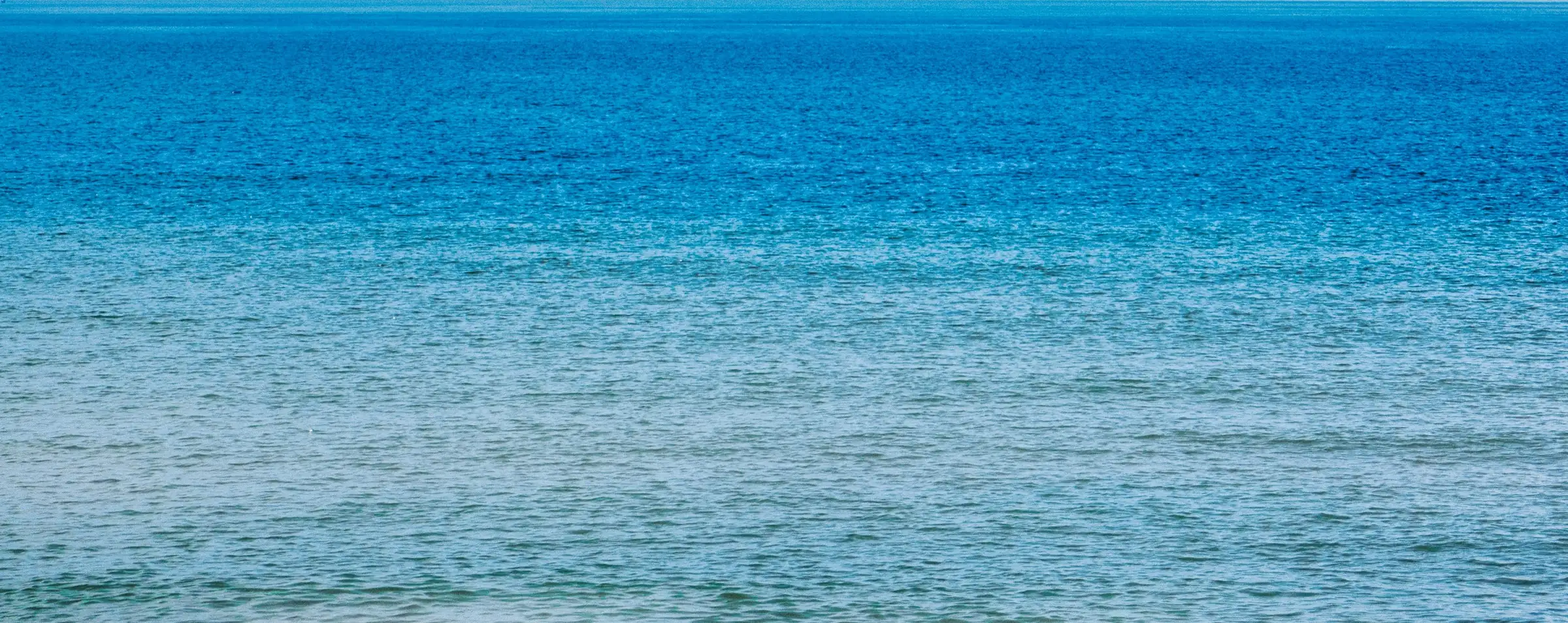
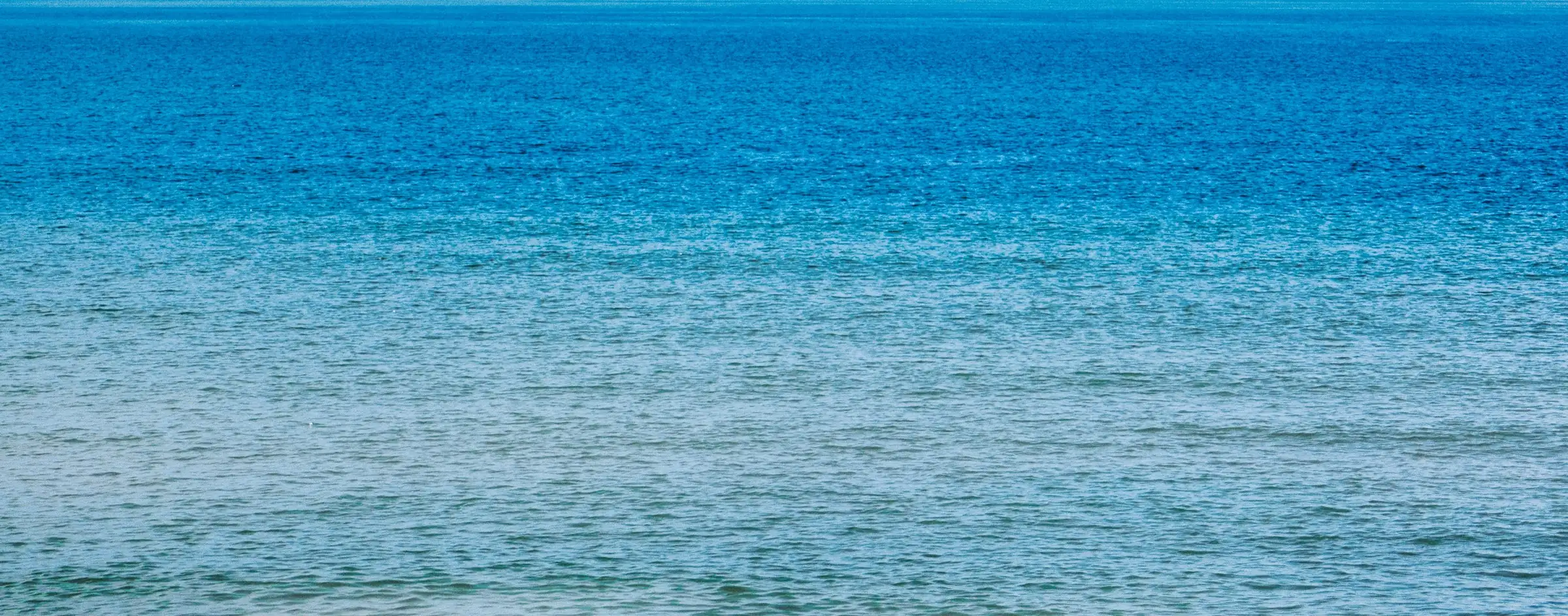
Crop the horizon edge out of the sky and sea layers so the mirror seam is clean; cache v10

diff --git a/css/layout.css b/css/layout.css
@@ -43,29 +43,29 @@ body {
    every two copies, so the animation wraps back by two copies and starts again:
    that covers a page of any length with four images. */
 .bg-sky {
-  --sky-h: max(110.25vw, var(--horizon)); /* one copy: the photo's own 2400x2646 shape, never shorter than the horizon */
+  --sky-h: max(108.75vw, var(--horizon)); /* one copy: the photo's own 2400x2610 shape, never shorter than the horizon */
   bottom: calc(100svh - var(--horizon) - var(--sky-h));
   width: 100%;
 }
 .bg-sky i {
   display: block;
   height: var(--sky-h);
-  background: url(../assets/images/sky.webp?v=9) center bottom / cover;
+  background: url(../assets/images/sky.webp?v=10) center bottom / cover;
 }
 .bg-sky i:nth-child(even) { transform: scaleY(-1); }
 
-/* The sea is the photo below the horizon, 2400x954, never shorter than the
+/* The sea is the photo below the horizon, 2400x944, never shorter than the
    gap under the horizon so it cannot run out at the bottom of the viewport. */
 .bg-sea {
   top: var(--horizon);
   width: 100%;
-  height: max(calc(100svh - var(--horizon)), 39.75vw);
-  background: url(../assets/images/sea.webp?v=9) center top / cover;
+  height: max(calc(100svh - var(--horizon)), 39.33vw);
+  background: url(../assets/images/sea.webp?v=10) center top / cover;
 }
 
 @media (max-width: 600px) {
-  .bg-sky i { background-image: url(../assets/images/sky-1000.webp?v=9); }
-  .bg-sea { background-image: url(../assets/images/sea-1000.webp?v=9); }
+  .bg-sky i { background-image: url(../assets/images/sky-1000.webp?v=10); }
+  .bg-sea { background-image: url(../assets/images/sea-1000.webp?v=10); }
 }
 
 /* Base on the horizon, centred, never wider than the viewport. */

diff --git a/index.html b/index.html
@@ -19,11 +19,11 @@
   <link rel="icon" type="image/svg+xml" href="/icon.svg">
 
   <!-- Styles -->
-  <link rel="stylesheet" href="css/reset.css?v=9">
-  <link rel="stylesheet" href="css/variables.css?v=9">
-  <link rel="stylesheet" href="css/layout.css?v=9">
-  <link rel="stylesheet" href="css/components.css?v=9">
-  <link rel="stylesheet" href="css/responsive.css?v=9">
+  <link rel="stylesheet" href="css/reset.css?v=10">
+  <link rel="stylesheet" href="css/variables.css?v=10">
+  <link rel="stylesheet" href="css/layout.css?v=10">
+  <link rel="stylesheet" href="css/components.css?v=10">
+  <link rel="stylesheet" href="css/responsive.css?v=10">
 <script>
 (function(){var A='https://analytics.harrys.monster/e',v;
 try{v=localStorage.getItem('_aid')||crypto.randomUUID();localStorage.setItem('_aid',v)}catch(e){v='anon'}
@@ -55,7 +55,7 @@ window.track=function(n,p){send({t:'custom',name:n,props:p})};
   <!-- Pinned sky and sea; each slides down at its own share of the scroll (see layout.css) -->
   <div class="bg-sky"><i></i><i></i><i></i><i></i></div>
   <div class="bg-sea"></div>
-  <img class="hero-island" src="assets/images/halftone-island.svg?v=9" alt="" width="96" height="65" decoding="async">
+  <img class="hero-island" src="assets/images/halftone-island.svg?v=10" alt="" width="96" height="65" decoding="async">
 
   <!-- ===== HEADER / NAV ===== -->
   <header class="header">
@@ -266,6 +266,6 @@ window.track=function(n,p){send({t:'custom',name:n,props:p})};
       <p>Harry Cassidy &copy; <span id="year">2026</span></p>
     </div>
   </footer>
-  <script src="js/main.js?v=9" defer></script>
+  <script src="js/main.js?v=10" defer></script>
 </body>
 </html>

diff --git a/guides.html b/guides.html
@@ -19,11 +19,11 @@
   <link rel="icon" type="image/svg+xml" href="/icon.svg">
 
   <!-- Styles -->
-  <link rel="stylesheet" href="css/reset.css?v=9">
-  <link rel="stylesheet" href="css/variables.css?v=9">
-  <link rel="stylesheet" href="css/layout.css?v=9">
-  <link rel="stylesheet" href="css/components.css?v=9">
-  <link rel="stylesheet" href="css/responsive.css?v=9">
+  <link rel="stylesheet" href="css/reset.css?v=10">
+  <link rel="stylesheet" href="css/variables.css?v=10">
+  <link rel="stylesheet" href="css/layout.css?v=10">
+  <link rel="stylesheet" href="css/components.css?v=10">
+  <link rel="stylesheet" href="css/responsive.css?v=10">
 <script>
 (function(){var A='https://analytics.harrys.monster/e',v;
 try{v=localStorage.getItem('_aid')||crypto.randomUUID();localStorage.setItem('_aid',v)}catch(e){v='anon'}
@@ -146,6 +146,6 @@ window.track=function(n,p){send({t:'custom',name:n,props:p})};
       <p>Harry Cassidy &copy; <span id="year">2026</span></p>
     </div>
   </footer>
-  <script src="js/main.js?v=9" defer></script>
+  <script src="js/main.js?v=10" defer></script>
 </body>
 </html>

diff --git a/timeline.html b/timeline.html
@@ -19,11 +19,11 @@
   <link rel="icon" type="image/svg+xml" href="/icon.svg">
 
   <!-- Styles -->
-  <link rel="stylesheet" href="css/reset.css?v=9">
-  <link rel="stylesheet" href="css/variables.css?v=9">
-  <link rel="stylesheet" href="css/layout.css?v=9">
-  <link rel="stylesheet" href="css/components.css?v=9">
-  <link rel="stylesheet" href="css/responsive.css?v=9">
+  <link rel="stylesheet" href="css/reset.css?v=10">
+  <link rel="stylesheet" href="css/variables.css?v=10">
+  <link rel="stylesheet" href="css/layout.css?v=10">
+  <link rel="stylesheet" href="css/components.css?v=10">
+  <link rel="stylesheet" href="css/responsive.css?v=10">
 <script>
 (function(){var A='https://analytics.harrys.monster/e',v;
 try{v=localStorage.getItem('_aid')||crypto.randomUUID();localStorage.setItem('_aid',v)}catch(e){v='anon'}
@@ -172,6 +172,6 @@ window.track=function(n,p){send({t:'custom',name:n,props:p})};
       <p>Harry Cassidy &copy; <span id="year">2026</span></p>
     </div>
   </footer>
-  <script src="js/main.js?v=9" defer></script>
+  <script src="js/main.js?v=10" defer></script>
 </body>
 </html>

diff --git a/wares.html b/wares.html
@@ -19,11 +19,11 @@
   <link rel="icon" type="image/svg+xml" href="/icon.svg">
 
   <!-- Styles -->
-  <link rel="stylesheet" href="css/reset.css?v=9">
-  <link rel="stylesheet" href="css/variables.css?v=9">
-  <link rel="stylesheet" href="css/layout.css?v=9">
-  <link rel="stylesheet" href="css/components.css?v=9">
-  <link rel="stylesheet" href="css/responsive.css?v=9">
+  <link rel="stylesheet" href="css/reset.css?v=10">
+  <link rel="stylesheet" href="css/variables.css?v=10">
+  <link rel="stylesheet" href="css/layout.css?v=10">
+  <link rel="stylesheet" href="css/components.css?v=10">
+  <link rel="stylesheet" href="css/responsive.css?v=10">
 
   <style>
     /* WARES case study palette — scoped, no site CSS touched */
@@ -147,6 +147,6 @@ window.track=function(n,p){send({t:'custom',name:n,props:p})};
   <footer class="footer">
     <div class="container"><p>Harry Cassidy &copy; <span id="year">2026</span></p></div>
   </footer>
-  <script src="js/main.js?v=9" defer></script>
+  <script src="js/main.js?v=10" defer></script>
 </body>
 </html>

diff --git a/agentic-tuning.html b/agentic-tuning.html
@@ -19,11 +19,11 @@
   <link rel="icon" type="image/svg+xml" href="/icon.svg">
 
   <!-- Styles -->
-  <link rel="stylesheet" href="css/reset.css?v=9">
-  <link rel="stylesheet" href="css/variables.css?v=9">
-  <link rel="stylesheet" href="css/layout.css?v=9">
-  <link rel="stylesheet" href="css/components.css?v=9">
-  <link rel="stylesheet" href="css/responsive.css?v=9">
+  <link rel="stylesheet" href="css/reset.css?v=10">
+  <link rel="stylesheet" href="css/variables.css?v=10">
+  <link rel="stylesheet" href="css/layout.css?v=10">
+  <link rel="stylesheet" href="css/components.css?v=10">
+  <link rel="stylesheet" href="css/responsive.css?v=10">
 
 <script>
 (function(){var A='https://analytics.harrys.monster/e',v;
@@ -107,6 +107,6 @@ window.track=function(n,p){send({t:'custom',name:n,props:p})};
   <footer class="footer">
     <div class="container"><p>Harry Cassidy &copy; <span id="year">2026</span></p></div>
   </footer>
-  <script src="js/main.js?v=9" defer></script>
+  <script src="js/main.js?v=10" defer></script>
 </body>
 </html>

diff --git a/ai-web-products.html b/ai-web-products.html
@@ -19,11 +19,11 @@
   <link rel="icon" type="image/svg+xml" href="/icon.svg">
 
   <!-- Styles -->
-  <link rel="stylesheet" href="css/reset.css?v=9">
-  <link rel="stylesheet" href="css/variables.css?v=9">
-  <link rel="stylesheet" href="css/layout.css?v=9">
-  <link rel="stylesheet" href="css/components.css?v=9">
-  <link rel="stylesheet" href="css/responsive.css?v=9">
+  <link rel="stylesheet" href="css/reset.css?v=10">
+  <link rel="stylesheet" href="css/variables.css?v=10">
+  <link rel="stylesheet" href="css/layout.css?v=10">
+  <link rel="stylesheet" href="css/components.css?v=10">
+  <link rel="stylesheet" href="css/responsive.css?v=10">
 
 <script>
 (function(){var A='https://analytics.harrys.monster/e',v;
@@ -107,6 +107,6 @@ window.track=function(n,p){send({t:'custom',name:n,props:p})};
   <footer class="footer">
     <div class="container"><p>Harry Cassidy &copy; <span id="year">2026</span></p></div>
   </footer>
-  <script src="js/main.js?v=9" defer></script>
+  <script src="js/main.js?v=10" defer></script>
 </body>
 </html>

diff --git a/how-i-work.html b/how-i-work.html
@@ -19,11 +19,11 @@
   <link rel="icon" type="image/svg+xml" href="/icon.svg">
 
   <!-- Styles -->
-  <link rel="stylesheet" href="css/reset.css?v=9">
-  <link rel="stylesheet" href="css/variables.css?v=9">
-  <link rel="stylesheet" href="css/layout.css?v=9">
-  <link rel="stylesheet" href="css/components.css?v=9">
-  <link rel="stylesheet" href="css/responsive.css?v=9">
+  <link rel="stylesheet" href="css/reset.css?v=10">
+  <link rel="stylesheet" href="css/variables.css?v=10">
+  <link rel="stylesheet" href="css/layout.css?v=10">
+  <link rel="stylesheet" href="css/components.css?v=10">
+  <link rel="stylesheet" href="css/responsive.css?v=10">
 
 <script>
 (function(){var A='https://analytics.harrys.monster/e',v;
@@ -108,6 +108,6 @@ window.track=function(n,p){send({t:'custom',name:n,props:p})};
   <footer class="footer">
     <div class="container"><p>Harry Cassidy &copy; <span id="year">2026</span></p></div>
   </footer>
-  <script src="js/main.js?v=9" defer></script>
+  <script src="js/main.js?v=10" defer></script>
 </body>
 </html>

diff --git a/single-use-software.html b/single-use-software.html
@@ -19,11 +19,11 @@
   <link rel="icon" type="image/svg+xml" href="/icon.svg">
 
   <!-- Styles -->
-  <link rel="stylesheet" href="css/reset.css?v=9">
-  <link rel="stylesheet" href="css/variables.css?v=9">
-  <link rel="stylesheet" href="css/layout.css?v=9">
-  <link rel="stylesheet" href="css/components.css?v=9">
-  <link rel="stylesheet" href="css/responsive.css?v=9">
+  <link rel="stylesheet" href="css/reset.css?v=10">
+  <link rel="stylesheet" href="css/variables.css?v=10">
+  <link rel="stylesheet" href="css/layout.css?v=10">
+  <link rel="stylesheet" href="css/components.css?v=10">
+  <link rel="stylesheet" href="css/responsive.css?v=10">
 
 <script>
 (function(){var A='https://analytics.harrys.monster/e',v;
@@ -109,6 +109,6 @@ window.track=function(n,p){send({t:'custom',name:n,props:p})};
   <footer class="footer">
     <div class="container"><p>Harry Cassidy &copy; <span id="year">2026</span></p></div>
   </footer>
-  <script src="js/main.js?v=9" defer></script>
+  <script src="js/main.js?v=10" defer></script>
 </body>
 </html>

diff --git a/404.html b/404.html
@@ -11,11 +11,11 @@
   <link rel="icon" type="image/svg+xml" href="/icon.svg">
 
   <!-- Styles -->
-  <link rel="stylesheet" href="css/reset.css?v=9">
-  <link rel="stylesheet" href="css/variables.css?v=9">
-  <link rel="stylesheet" href="css/layout.css?v=9">
-  <link rel="stylesheet" href="css/components.css?v=9">
-  <link rel="stylesheet" href="css/responsive.css?v=9">
+  <link rel="stylesheet" href="css/reset.css?v=10">
+  <link rel="stylesheet" href="css/variables.css?v=10">
+  <link rel="stylesheet" href="css/layout.css?v=10">
+  <link rel="stylesheet" href="css/components.css?v=10">
+  <link rel="stylesheet" href="css/responsive.css?v=10">
 
   <!-- Page-local: the oversized error code (only consumer on the site) -->
   <style>
@@ -122,6 +122,6 @@ window.track=function(n,p){send({t:'custom',name:n,props:p})};
       <p>Harry Cassidy &copy; <span id="year">2026</span></p>
     </div>
   </footer>
-  <script src="js/main.js?v=9" defer></script>
+  <script src="js/main.js?v=10" defer></script>
 </body>
 </html>

diff --git a/guide-to-msp430.html b/guide-to-msp430.html
@@ -19,11 +19,11 @@
   <link rel="icon" type="image/svg+xml" href="/icon.svg">
 
   <!-- Styles -->
-  <link rel="stylesheet" href="css/reset.css?v=9">
-  <link rel="stylesheet" href="css/variables.css?v=9">
-  <link rel="stylesheet" href="css/layout.css?v=9">
-  <link rel="stylesheet" href="css/components.css?v=9">
-  <link rel="stylesheet" href="css/responsive.css?v=9">
+  <link rel="stylesheet" href="css/reset.css?v=10">
+  <link rel="stylesheet" href="css/variables.css?v=10">
+  <link rel="stylesheet" href="css/layout.css?v=10">
+  <link rel="stylesheet" href="css/components.css?v=10">
+  <link rel="stylesheet" href="css/responsive.css?v=10">
 
 <script>
 (function(){var A='https://analytics.harrys.monster/e',v;
@@ -233,6 +233,6 @@ window.track=function(n,p){send({t:'custom',name:n,props:p})};
       <p>Harry Cassidy &copy; <span id="year">2026</span></p>
     </div>
   </footer>
-  <script src="js/main.js?v=9" defer></script>
+  <script src="js/main.js?v=10" defer></script>
 </body>
 </html>

diff --git a/guide-to-ssh-curtin.html b/guide-to-ssh-curtin.html
@@ -19,11 +19,11 @@
   <link rel="icon" type="image/svg+xml" href="/icon.svg">
 
   <!-- Styles -->
-  <link rel="stylesheet" href="css/reset.css?v=9">
-  <link rel="stylesheet" href="css/variables.css?v=9">
-  <link rel="stylesheet" href="css/layout.css?v=9">
-  <link rel="stylesheet" href="css/components.css?v=9">
-  <link rel="stylesheet" href="css/responsive.css?v=9">
+  <link rel="stylesheet" href="css/reset.css?v=10">
+  <link rel="stylesheet" href="css/variables.css?v=10">
+  <link rel="stylesheet" href="css/layout.css?v=10">
+  <link rel="stylesheet" href="css/components.css?v=10">
+  <link rel="stylesheet" href="css/responsive.css?v=10">
 
 <script>
 (function(){var A='https://analytics.harrys.monster/e',v;
@@ -259,6 +259,6 @@ window.track=function(n,p){send({t:'custom',name:n,props:p})};
       <p>Harry Cassidy &copy; <span id="year">2026</span></p>
     </div>
   </footer>
-  <script src="js/main.js?v=9" defer></script>
+  <script src="js/main.js?v=10" defer></script>
 </body>
 </html>
